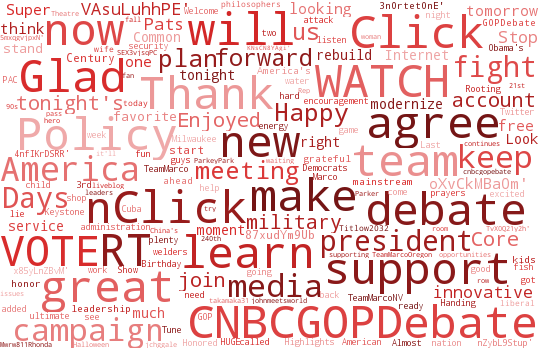
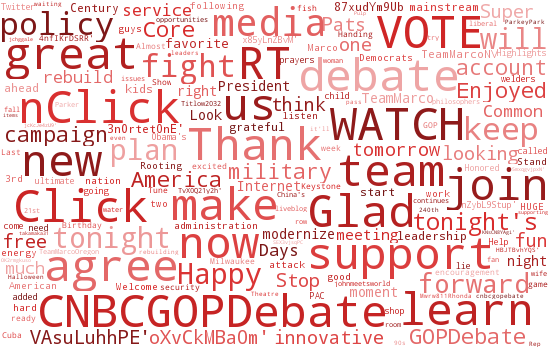
updates to db_helper.py

diff --git a/db_helper.py b/db_helper.py
@@ -20,7 +20,7 @@ jimgilmore = Candidate("Jim", "Gilmore", "Virginia", "Republican Party", "Gilmor
 lindseygraham = Candidate("Lindsey", "Graham", "South Carolina", "Republican Party", "LindseyGraham.com", "http://www.facebook.com/LindseGrahamSC", "LindseyGrahamSC")
 mikehuckabee = Candidate("Mike", "Huckabee", "Florida", "Republican Party", "MikeHuckabee.com", "http://www.facebook.com/MikeHuckabee", "GovMikeHuckabee")
 bobbyjindal = Candidate("Bobby", "Jindal", "Louisiana", "Republican Party", "BobbyJindal.com", "http://www.facebook.com/BobbyJindal", "BobbyJindal")
-johnkasich = Candidate("John", "Kasich", "Ohio", "Republican Party", "JohnKasich.com", "http://www.facebook.com/JohnRKasich", "JohnRKasich")
+johnkasich = Candidate("John", "Kasich", "Ohio", "Republican Party", "JohnKasich.com", "http://www.facebook.com/JohnRKasich", "JohnKasich")
 georgepataki = Candidate("George", "Pataki", "New York", "Republican Party", "GeorgePataki.com", "http://www.facebook.com/GovGeorgePataki", "GovernorPataki")
 randpaul = Candidate("Rand", "Paul", "Kentucky", "Republican Party", "RandPaul.com", "http://www.facebook.com/RandPaul", "RandPaul")
 marcorubio = Candidate("Marco", "Rubio", "Florida", "Republican Party", "MarcoRubio.com", "http://www.facebook.com/MarcoRubio", "MarcoRubio")

diff --git a/make_wordclouds.py b/make_wordclouds.py
@@ -67,7 +67,7 @@ for c in candidates:
 	# wordcloud.to_file(outpath+str(c.id)+'_wordcloud.png')
 
 # Making block word clouds (not masked).
-	wordcloud = WordCloud(background_color="white", margin=1, max_font_size=45, max_words=175, width=540, height=350, prefer_horizontal=1.0, stopwords=STOPWORDS)
+	wordcloud = WordCloud(background_color="white", margin=1, max_font_size=45, max_words=175, width=550, height=350, prefer_horizontal=1.0, stopwords=STOPWORDS)
 	wordcloud.generate(text)
 	if c.party == 'Republican Party':
 		print c.party
